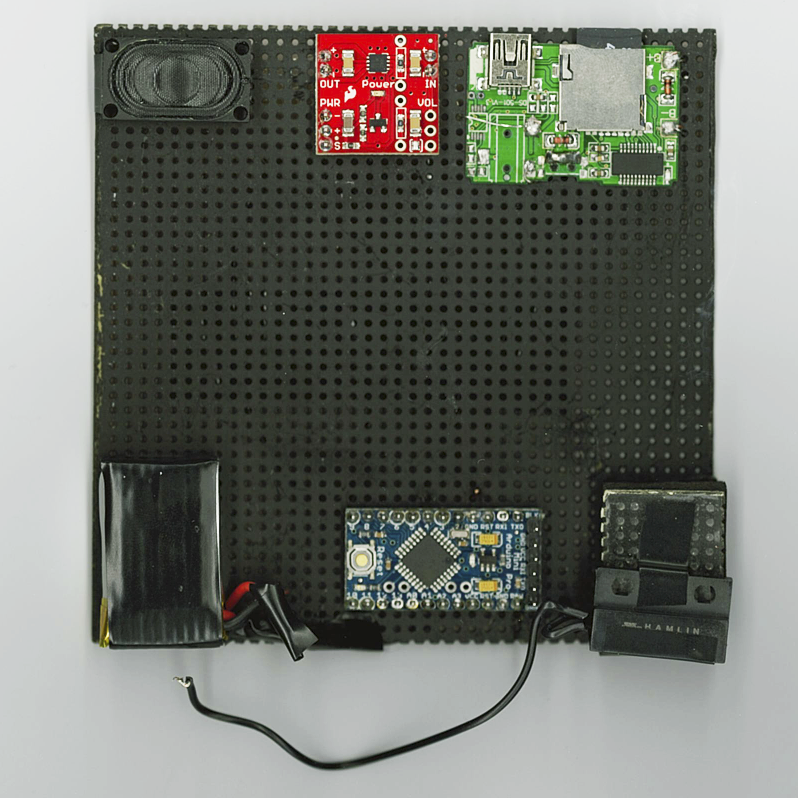
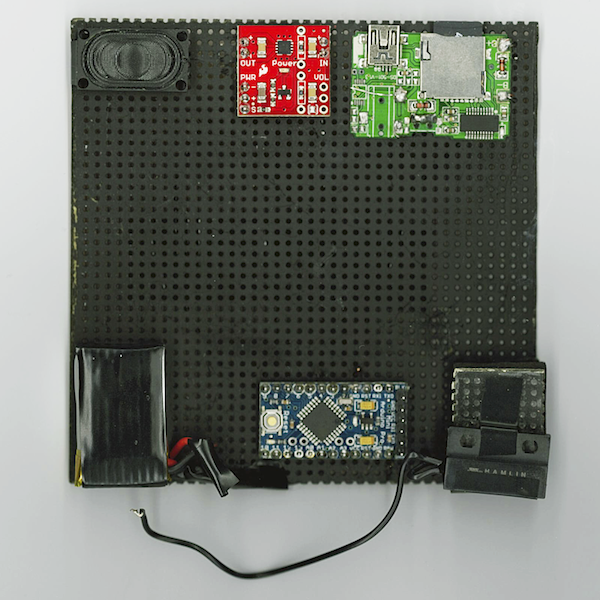
fix image width again

diff --git a/README.md b/README.md
@@ -3,8 +3,8 @@ Fuelbox MP3
 * v1v2: An mp3 player controller board with LM386 op-amp, using touch sensor, push button and light sensor as trigger.
 * v3: An mp3 player + Arduino + TPA2005D1 amp all-in-one triggered only by SPST-NC reed switch (SPDT will do too, just choose NC pair). Once triggered, Arduino checks the EEPROM flag, plays the audio once, and sleeps forever.
 
-![circuit](https://github.com/hezhao/fuelbox-mp3/raw/master/v3/circuit.png)@600
-![prototype](https://github.com/hezhao/fuelbox-mp3/raw/master/v3/prototype.png)@600
+![circuit](https://github.com/hezhao/fuelbox-mp3/raw/master/v3/circuit.png)
+![prototype](https://github.com/hezhao/fuelbox-mp3/raw/master/v3/prototype.png)
 
 Power Consumption
 =================
